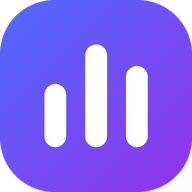
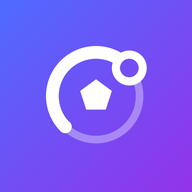
feat: новый логотип, правки шаблонов

diff --git a/templates/matches/detail.html b/templates/matches/detail.html
@@ -75,7 +75,7 @@
             {% elif no_votes and match.status == 'finished' %}
             {# Голосов пока нет — не показываем пустоту, зовём оценить первым. #}
             <div class="dx-first-vote">
-                <span class="dx-first-vote__ico"><i class="ti ti-star"></i></span>
+                <span class="dx-first-vote__ico"><i class="ti ti-dopx-rate"></i></span>
                 <div class="dx-first-vote__body">
                     <b>Будьте первым, кто оценит</b>
                     <span>{% if voting_open %}Рейтинги игроков, тренеров и судьи появятся после первых оценок болельщиков.{% else %}Этот матч болельщики не оценивали.{% endif %}</span>
@@ -96,7 +96,7 @@
                 <div class="p-4 sm:p-5">
                     <p class="text-sm opacity-70 leading-relaxed">Пока идёт голосование, оценки игроков, команд, тренеров и судьи видны только тем, кто уже оценил матч. Так никто не подстраивается под чужие цифры. После закрытия голосования рейтинги откроются всем.</p>
                     {% if voting_open and user.is_authenticated %}
-                    <a href="{% url 'evaluations:context' match.id %}" class="btn btn-primary btn-sm mt-3 w-full sm:w-auto"><i class="ti ti-star"></i> Оценить матч</a>
+                    <a href="{% url 'evaluations:context' match.id %}" class="btn btn-primary btn-sm mt-3 w-full sm:w-auto"><i class="ti ti-dopx-rate"></i> Оценить матч</a>
                     {% elif voting_open %}
                     <a href="{% url 'users:login' %}?next={{ request.path|urlencode }}" class="btn btn-primary btn-sm mt-3 w-full sm:w-auto"><i class="ti ti-login"></i> Войти и оценить</a>
                     {% endif %}
@@ -441,7 +441,7 @@
         <span class="dx-sticky-cta__meta"><span data-countdown="{{ match.voting_open_until|date:'c' }}" data-countdown-prefix="Голосование закроется через " data-countdown-done="Голосование закрывается">Голосование закроется через {{ match.voting_open_until|timeuntil }}</span></span>
     </div>
     {% if user.is_authenticated %}
-    <a href="{% url 'evaluations:context' match.id %}" class="dx-sticky-cta__button"><i class="ti ti-star"></i> Оценить</a>
+    <a href="{% url 'evaluations:context' match.id %}" class="dx-sticky-cta__button"><i class="ti ti-dopx-rate"></i> Оценить</a>
     {% else %}
     <a href="{% url 'users:login' %}?next={{ request.path|urlencode }}" class="dx-sticky-cta__button"><i class="ti ti-login"></i> Войти</a>
     {% endif %}

diff --git a/templates/components/_brand.html b/templates/components/_brand.html
@@ -1,19 +1,11 @@
 {% comment %}
-Логотип DOPX (навбар и футер): SVG-значок + текст.
+Логотип DOPX (навбар и футер): плитка со знаком «Мяч-шкала» + текст.
+Геометрия знака — scripts/build_brand_assets.py.
 Параметры: variant (обязателен, уникальный id градиента), icon_size, text_size.
 {% endcomment %}
 <div class="flex items-center gap-2 min-w-0">
-    <svg viewBox="0 0 32 32" class="{{ icon_size|default:'h-7 w-7 sm:h-8 sm:w-8' }} shrink-0" aria-hidden="true">
-        <rect width="32" height="32" rx="9" fill="url(#dopxGradient-{{ variant }})"></rect>
-        <rect x="7.4" y="14" width="3.6" height="10.5" rx="1.8" fill="white" fill-opacity="0.95"></rect>
-        <rect x="14.2" y="7.4" width="3.6" height="17.1" rx="1.8" fill="white"></rect>
-        <rect x="21" y="11" width="3.6" height="13.5" rx="1.8" fill="white" fill-opacity="0.95"></rect>
-        <defs>
-            <linearGradient id="dopxGradient-{{ variant }}" x1="0" y1="0" x2="32" y2="32" gradientUnits="userSpaceOnUse">
-                <stop offset="0" stop-color="#4F6BFF"></stop>
-                <stop offset="1" stop-color="#9333EA"></stop>
-            </linearGradient>
-        </defs>
+    <svg viewBox="0 0 48 48" class="{{ icon_size|default:'h-7 w-7 sm:h-8 sm:w-8' }} shrink-0 dx-brand-mark" aria-hidden="true">
+        <defs><linearGradient id="dopxGradient-{{ variant }}" x1="0" y1="0" x2="48" y2="48" gradientUnits="userSpaceOnUse"><stop offset="0" stop-color="#4F6BFF"/><stop offset="1" stop-color="#9333EA"/></linearGradient></defs><rect width="48" height="48" rx="13" fill="url(#dopxGradient-{{ variant }})"/><g transform="translate(4.8 4.8) scale(0.8)"><circle cx="24" cy="24" r="17" fill="none" stroke="#fff" stroke-width="3" opacity=".35"/><path d="M11.98 36.02 A17 17 0 1 1 37.02 13.07" fill="none" stroke="#fff" stroke-width="5" stroke-linecap="round"/><circle cx="37.02" cy="13.07" r="5.2" fill="url(#dopxGradient-{{ variant }})" stroke="#fff" stroke-width="3.2"/><path d="M24 17.5 L30.2 22 L27.8 29.3 L20.2 29.3 L17.8 22 Z" fill="#fff"/></g>
     </svg>
     <span class="{{ text_size|default:'text-base sm:text-lg' }} font-extrabold tracking-tight leading-none whitespace-nowrap">DOPX</span>
 </div>

diff --git a/templates/core/rules.html b/templates/core/rules.html
@@ -19,7 +19,7 @@
         <h3 class="font-bold mb-3">Содержание</h3>
         <ul class="menu menu-sm">
           <li><a href="#principles"><i class="ti ti-target"></i> Принципы</a></li>
-          <li><a href="#evaluation"><i class="ti ti-star"></i> Оценка матчей</a></li>
+          <li><a href="#evaluation"><i class="ti ti-dopx-rate"></i> Оценка матчей</a></li>
           <li><a href="#trust"><i class="ti ti-shield-check"></i> Trust Score</a></li>
           <li><a href="#gamification"><i class="ti ti-trophy"></i> Опыт и достижения</a></li>
           <li><a href="#season"><i class="ti ti-ticket"></i> Сезон, задания, друзья</a></li>
@@ -52,7 +52,7 @@
     <section id="evaluation" class="scroll-mt-24">
       <div class="card bg-base-100 border border-base-300">
         <div class="card-body p-4 md:p-6">
-          <h2 class="text-xl md:text-2xl font-bold mb-3 md:mb-4 flex items-center gap-2"><i class="ti ti-star text-warning"></i> Как оценивать матчи</h2>
+          <h2 class="text-xl md:text-2xl font-bold mb-3 md:mb-4 flex items-center gap-2"><i class="ti ti-dopx-rate text-primary"></i> Как оценивать матчи</h2>
           <p class="opacity-60 text-xs md:text-sm mb-4">Есть два режима. «Быстро»: ключевые игроки, тренеры и судья за пару минут. «Подробно»: весь состав и каждый критерий отдельно.</p>
           <div class="space-y-4 md:space-y-6">
             <div class="flex gap-3 md:gap-4">

diff --git a/static/css/ui.css b/static/css/ui.css
@@ -2279,3 +2279,17 @@ button.dx-poll__opt:active, a.dx-poll__opt:active { transform: scale(.98); }
 .dx-live-dot::before { content: ""; width: .45rem; height: .45rem; border-radius: 50%; background: currentColor; animation: dx-live-blink 2s ease-in-out infinite; }
 @keyframes dx-live-blink { 50% { opacity: .3; } }
 @media (prefers-reduced-motion: reduce) { .dx-live-dot::before { animation: none; } }
+
+/* Фирменный знак «Оценить» (Мяч-шкала): <i class="ti ti-dopx-rate"></i> — как иконка Tabler,
+   берёт цвет и размер текста. Рисунок — static/img/dopx-mark.svg (scripts/build_brand_assets.py). */
+.ti-dopx-rate::before {
+    content: ""; display: inline-block; width: 1.08em; height: 1.08em; vertical-align: -0.16em;
+    background-color: currentColor;
+    -webkit-mask: url("../img/dopx-mark.svg") center / contain no-repeat;
+    mask: url("../img/dopx-mark.svg") center / contain no-repeat;
+}
+/* Нажатие на «Оценить»: шкала знака чуть «проворачивается». */
+.ti-dopx-rate::before { transition: transform .35s cubic-bezier(.3, 1.6, .5, 1); }
+a:active > .ti-dopx-rate::before, button:active > .ti-dopx-rate::before,
+.dx-tabbar__item--center:active .ti-dopx-rate::before { transform: rotate(-28deg) scale(1.06); }
+@media (prefers-reduced-motion: reduce) { .ti-dopx-rate::before { transition: none; } }

diff --git a/templates/core/_personal_panel.html b/templates/core/_personal_panel.html
@@ -78,7 +78,7 @@
         {% if personal.next_other %}
         {% with m=personal.next_other %}
         <a href="{% url 'evaluations:context' m.id %}" class="dx-action">
-            <span class="dx-action__icon"><i class="ti ti-star"></i></span>
+            <span class="dx-action__icon"><i class="ti ti-dopx-rate"></i></span>
             <span class="dx-action__body">
                 <span class="dx-action__eyebrow">Дальше в очереди</span>
                 <span class="dx-action__title">{{ m.home_team.name }} {{ m.get_score_display }} {{ m.away_team.name }}</span>
@@ -91,7 +91,7 @@
         {% elif personal.next_match %}
         {% with m=personal.next_match %}
         <a href="{% url 'evaluations:context' m.id %}" class="dx-action dx-action--primary">
-            <span class="dx-action__icon"><i class="ti ti-star"></i></span>
+            <span class="dx-action__icon"><i class="ti ti-dopx-rate"></i></span>
             <span class="dx-action__body">
                 <span class="dx-action__eyebrow">Оценить матч</span>
                 <span class="dx-action__title">{{ m.home_team.name }} {{ m.get_score_display }} {{ m.away_team.name }}</span>

diff --git a/templates/base.html b/templates/base.html
@@ -30,9 +30,9 @@
     <meta name="apple-mobile-web-app-capable" content="yes">
     <meta name="apple-mobile-web-app-title" content="DOPX">
     {# Favicon #}
-    <link rel="icon" type="image/png" href="{% static 'favicons/favicon-32x32.png' %}" sizes="32x32">
-    <link rel="icon" type="image/png" href="{% static 'favicons/favicon-16x16.png' %}" sizes="16x16">
-    <link rel="apple-touch-icon" href="{% static 'favicons/apple-touch-icon.png' %}">
+    <link rel="icon" type="image/png" href="{% static_v 'favicons/favicon-32x32.png' %}" sizes="32x32">
+    <link rel="icon" type="image/png" href="{% static_v 'favicons/favicon-16x16.png' %}" sizes="16x16">
+    <link rel="apple-touch-icon" href="{% static_v 'favicons/apple-touch-icon.png' %}">
     {# Tailwind CSS #}
     {# Версии CDN закреплены точно. integrity временно нет — посчитать через scripts/generate_sri.sh. #}
     <script src="https://cdn.jsdelivr.net/npm/@tailwindcss/browser@4.3.3" integrity="sha384-aJ9rL4k6lF+91guGvUFVSkpIcge7Zd9EiI4TQDLoK9kFaFJgKHgjEXVvG/qA5COj" crossorigin="anonymous"></script>

diff --git a/templates/engagement/season_pass.html b/templates/engagement/season_pass.html
@@ -84,7 +84,7 @@
             <section class="dx-card">
                 <div class="dx-card__head"><div><h2 class="dx-card__title">Как получать XP</h2></div></div>
                 <ul class="dx-pass-how">
-                    <li><i class="ti ti-star"></i><span>Оценка матча</span><b>до 10 XP</b></li>
+                    <li><i class="ti ti-dopx-rate"></i><span>Оценка матча</span><b>до 10 XP</b></li>
                     <li><i class="ti ti-checklist"></i><span>Задания дня</span><b>5–20 XP</b></li>
                     <li><i class="ti ti-sparkles"></i><span>Все задания дня</span><b>+{{ xp_rules.quests_bonus }} XP</b></li>
                     <li><i class="ti ti-flame"></i><span>Серия дней: 3, 7, 14, 30…</span><b>до {{ xp_rules.max_streak }} XP</b></li>

diff --git a/templates/base_auth.html b/templates/base_auth.html
@@ -12,8 +12,8 @@
     <title>{% block title %}{{ page_title|default:'DOPX' }}{% endblock %}</title>
     
     {# Favicon #}
-    <link rel="icon" type="image/png" href="{% static 'favicons/favicon-32x32.png' %}" sizes="32x32">
-    <link rel="icon" type="image/png" href="{% static 'favicons/favicon-16x16.png' %}" sizes="16x16">
+    <link rel="icon" type="image/png" href="{% static_v 'favicons/favicon-32x32.png' %}" sizes="32x32">
+    <link rel="icon" type="image/png" href="{% static_v 'favicons/favicon-16x16.png' %}" sizes="16x16">
     
     {# Те же версии Tailwind/DaisyUI/HTMX/Alpine, что в base.html. #}
     <script src="https://cdn.jsdelivr.net/npm/@tailwindcss/browser@4.3.3" integrity="sha384-aJ9rL4k6lF+91guGvUFVSkpIcge7Zd9EiI4TQDLoK9kFaFJgKHgjEXVvG/qA5COj" crossorigin="anonymous"></script>

diff --git a/templates/components/_notification_item.html b/templates/components/_notification_item.html
@@ -35,7 +35,7 @@
         {% elif 'ticket' in notification.notification_type or notification.notification_type == 'admin_reply' %}bg-primary/10 text-primary
         {% else %}bg-base-200 text-base-content{% endif %}">
         <i class="ti {% if notification.notification_type == 'match_finished' %}ti-check
-            {% elif notification.notification_type == 'voting_open' %}ti-star
+            {% elif notification.notification_type == 'voting_open' %}ti-dopx-rate
             {% elif notification.notification_type == 'voting_closing' or notification.notification_type == 'prediction_closing' %}ti-clock
             {% elif notification.notification_type == 'top_performance' %}ti-medal
             {% elif notification.notification_type == 'match_event' %}ti-ball-football

diff --git a/templates/evaluations/_evaluation_progress.html b/templates/evaluations/_evaluation_progress.html
@@ -35,7 +35,7 @@
                     {% elif forloop.counter == 3 %}<i class="ti ti-users"></i>
                     {% elif forloop.counter == 4 %}<i class="ti ti-clipboard-list"></i>
                     {% elif forloop.counter == 5 %}<i class="ti ti-gavel"></i>
-                    {% else %}<i class="ti ti-star"></i>{% endif %}
+                    {% else %}<i class="ti ti-dopx-rate"></i>{% endif %}
                 </div>
                 <span class="wz-rail__label {% if i|stringformat:"s" == step|stringformat:"s" %}wz-rail__label--current{% endif %}">
                     {% if forloop.counter == 1 %}Контекст

diff --git a/templates/evaluations/match_final.html b/templates/evaluations/match_final.html
@@ -23,7 +23,7 @@
         <div class="card-body p-4 sm:p-6">
             <div class="text-center mb-5 sm:mb-6">
                 <div class="w-14 h-14 rounded-2xl bg-warning/10 flex items-center justify-center mx-auto mb-3">
-                    <i class="ti ti-star text-2xl text-warning"></i>
+                    <i class="ti ti-dopx-rate text-2xl text-warning"></i>
                 </div>
                 <h2 class="text-xl sm:text-2xl font-extrabold mb-1">Общая оценка матча</h2>
                 <p class="text-sm text-base-content/60">Последний шаг. Как вам матч в целом?</p>

diff --git a/templates/components/_match_card.html b/templates/components/_match_card.html
@@ -233,7 +233,7 @@ data-background-poll — без глобального лоадера.
             <button type="button"
                     onclick="event.stopPropagation(); window.location.href='{% url 'evaluations:context' match.id %}'"
                     class="mrow__cta btn btn-xs btn-primary shrink-0">
-                <i class="ti ti-star"></i>
+                <i class="ti ti-dopx-rate"></i>
                 <span class="hidden sm:inline">Оценить</span>
             </button>
             {% elif match.status == 'finished' %}
